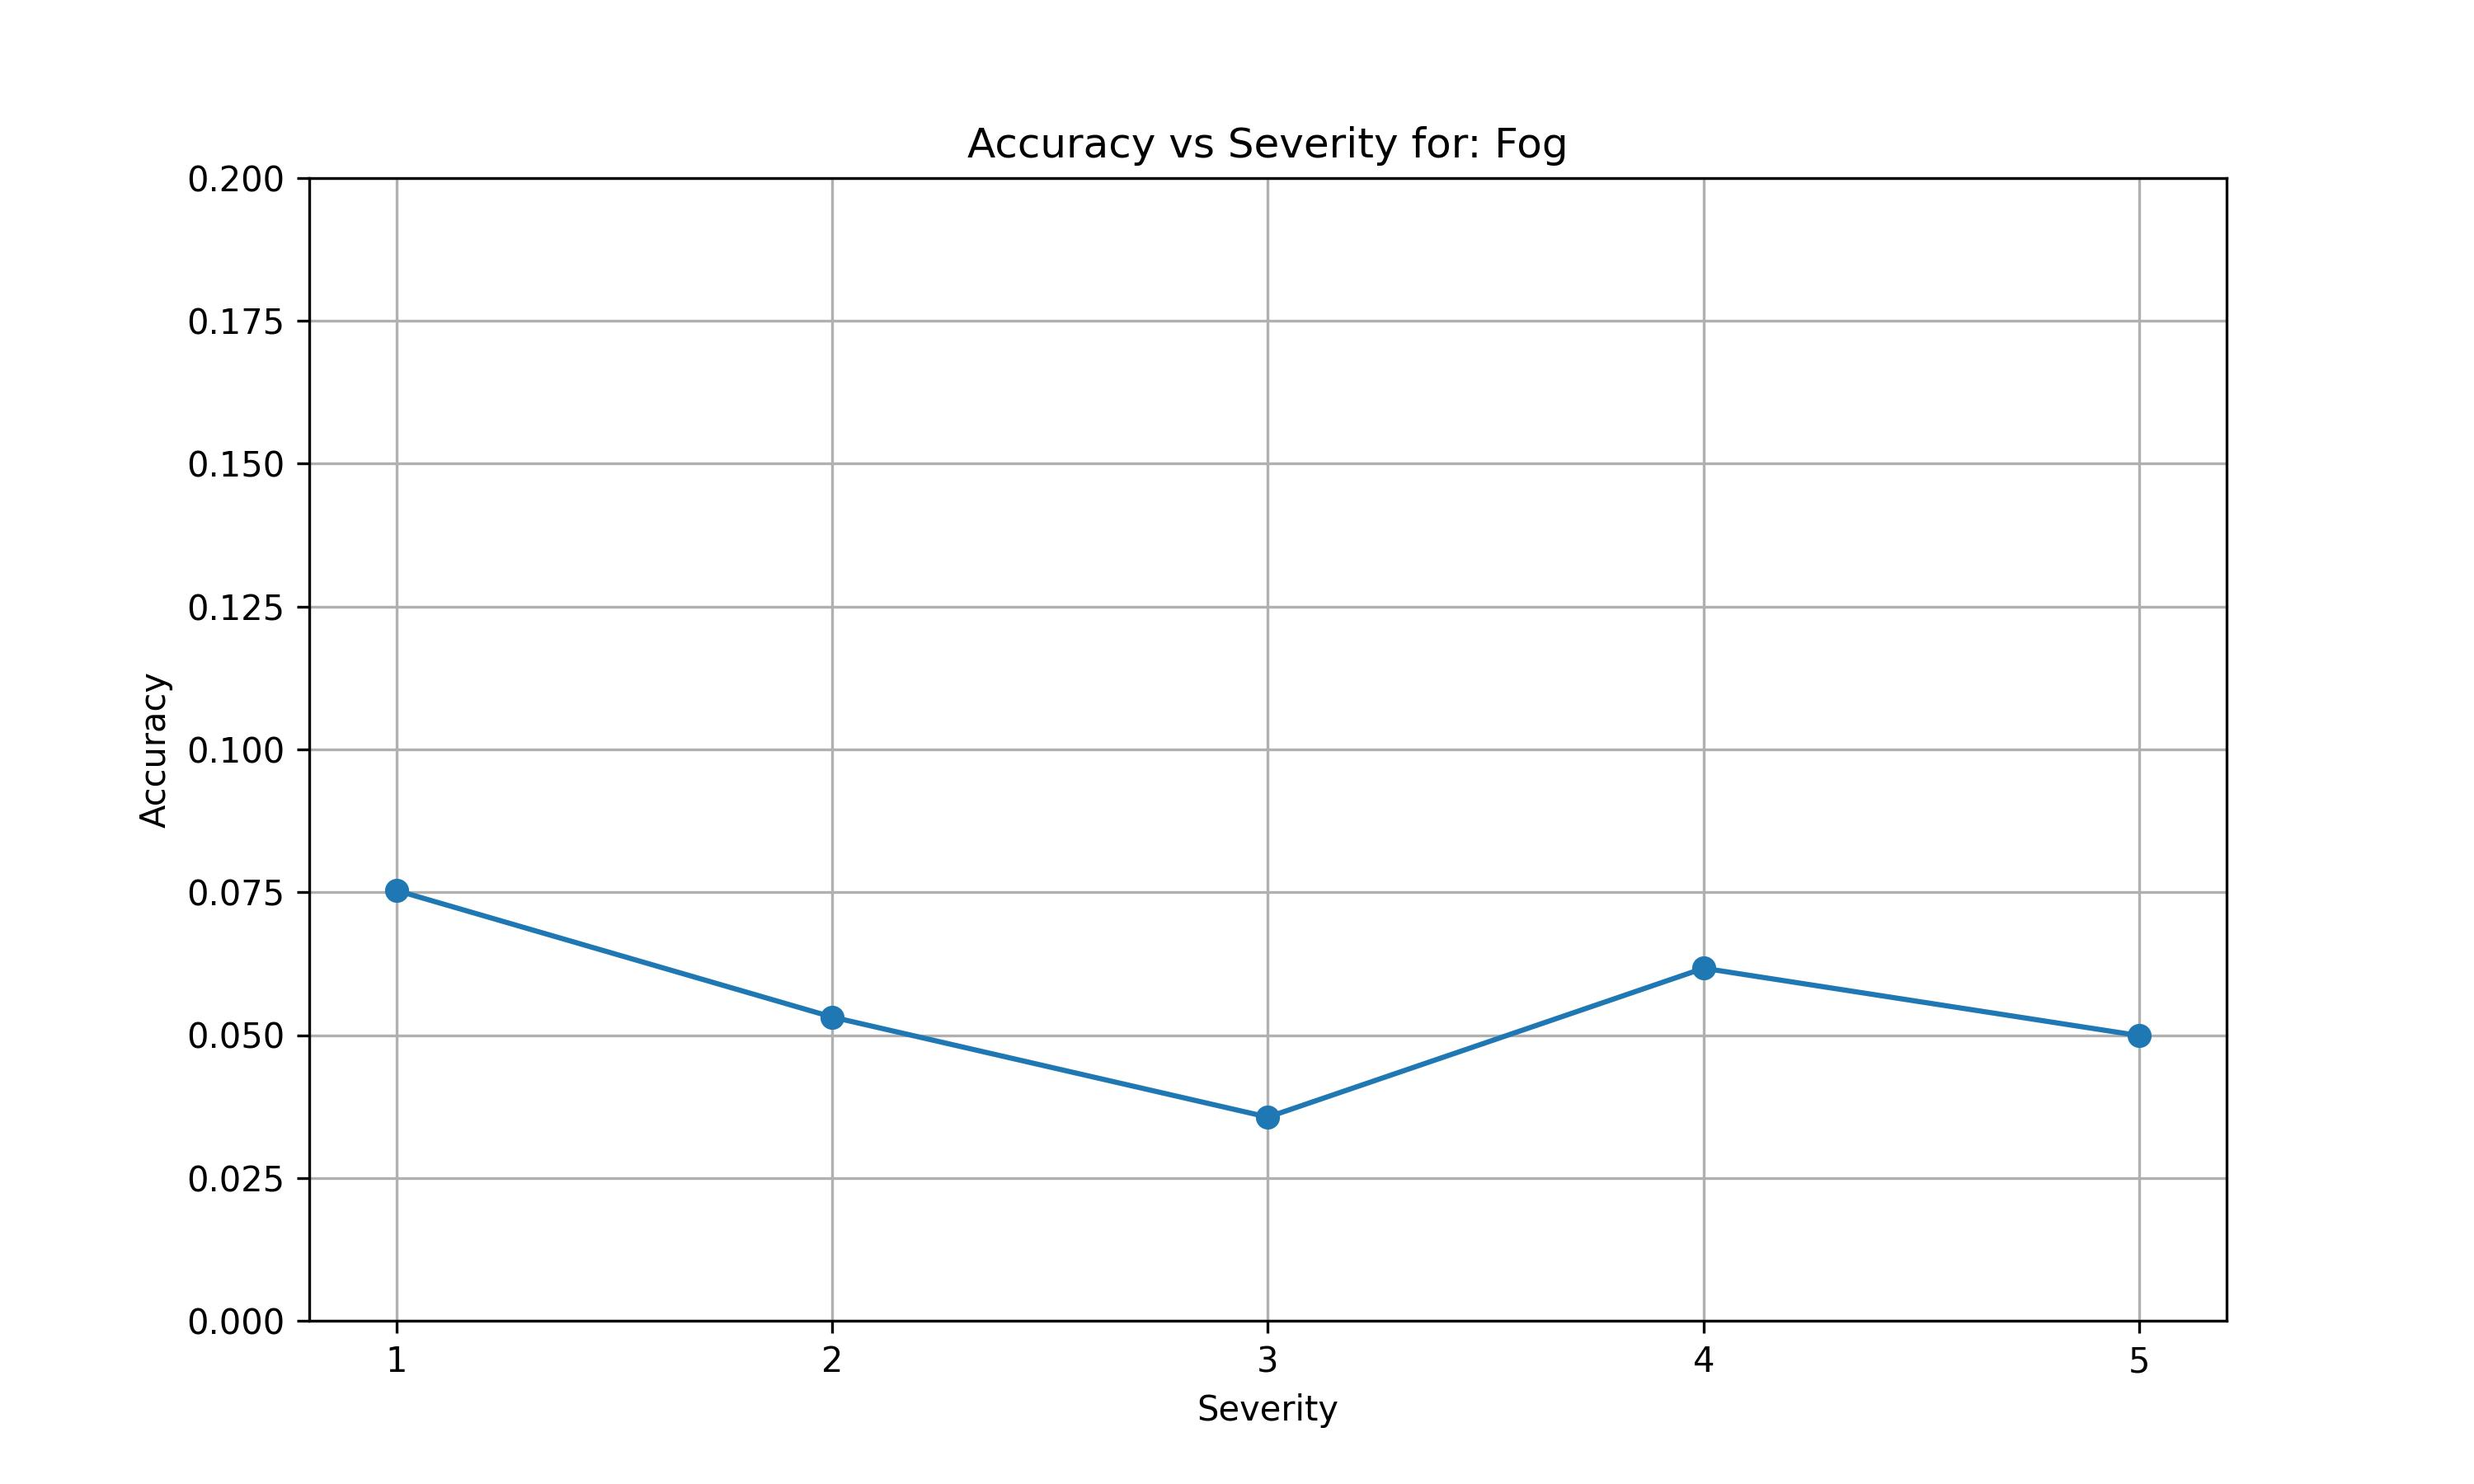
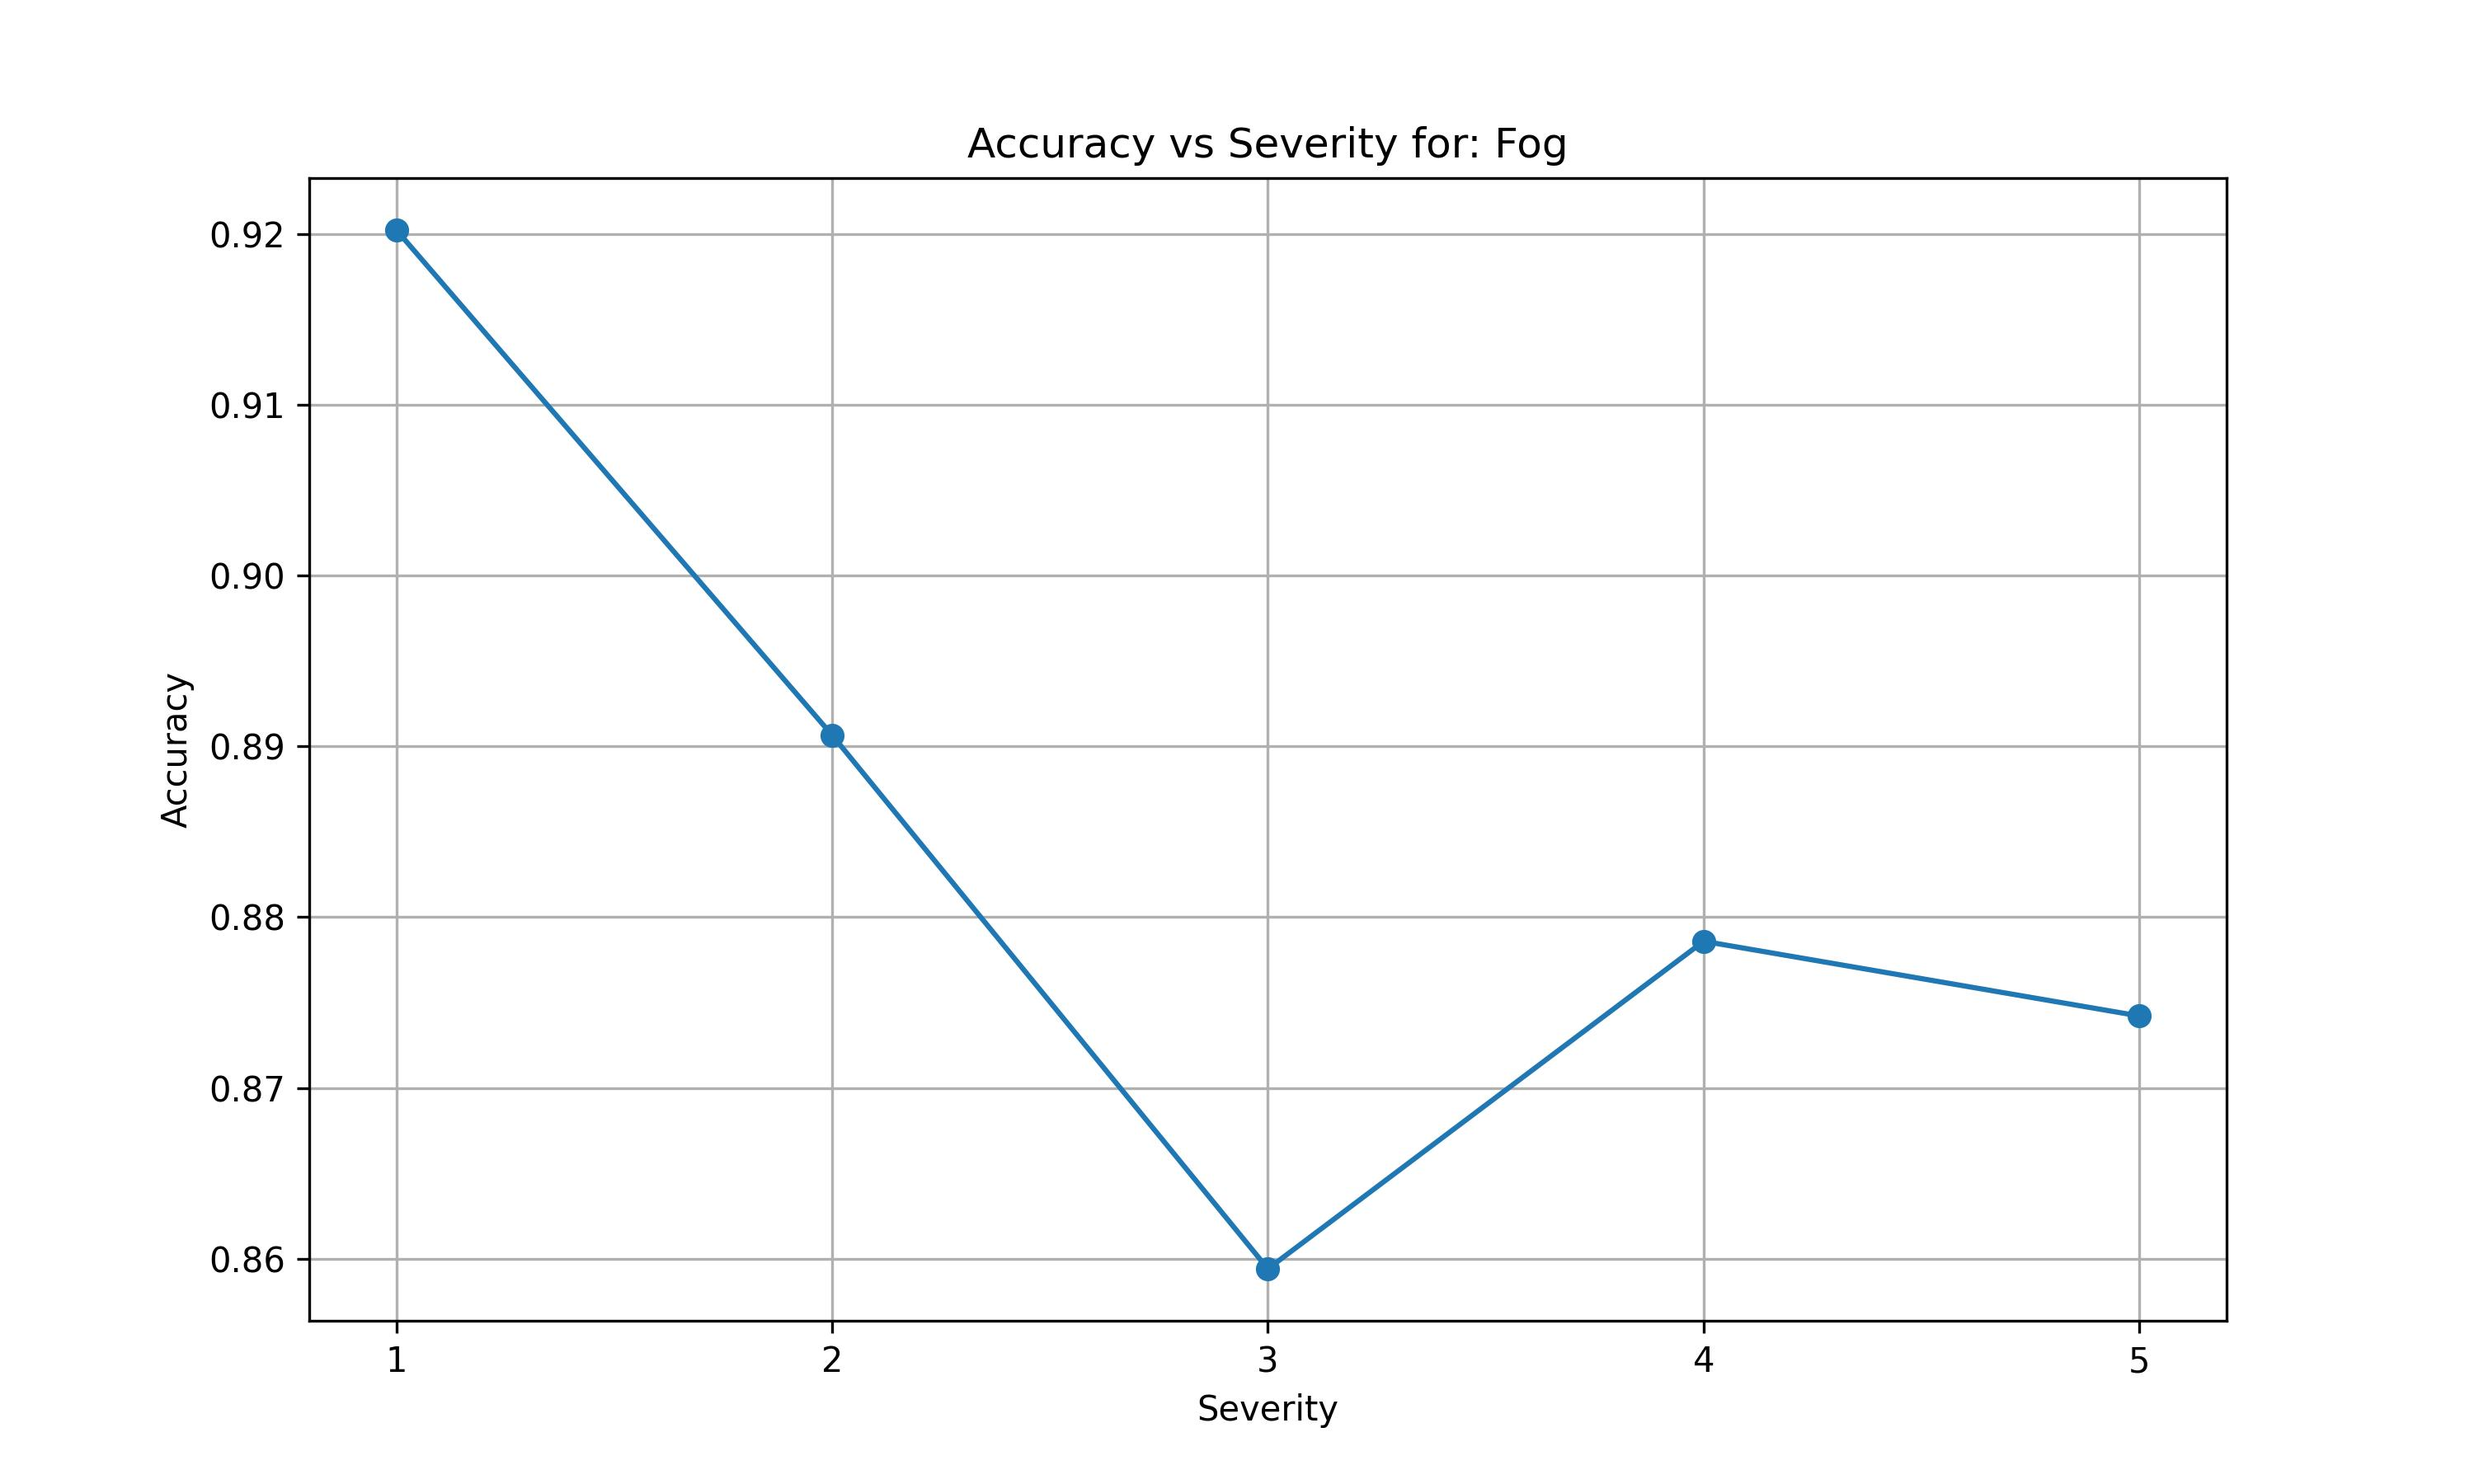
Finish weather perturbations

diff --git a/perturbations/weather_graphs.py b/perturbations/weather_graphs.py
@@ -6,7 +6,7 @@ import pandas as pd
 import matplotlib.pyplot as plt
 import os
 
-data = pd.read_csv("weather_perturbations.csv")
+data = pd.read_csv("weather.out")
 
 data['severity'] = pd.to_numeric(data['severity'], errors='coerce')
 data['accuracy'] = pd.to_numeric(data['accuracy'], errors='coerce')
@@ -28,7 +28,6 @@ for ctype in corruption_types:
     plt.ylabel("Accuracy")
     plt.title(f"Accuracy vs Severity for: {ctype.capitalize()}")
     plt.xticks([1, 2, 3, 4, 5])
-    plt.ylim(0, 0.2)
     plt.grid(True)
     
     save_path = os.path.join(output_dir, f"{ctype}.jpg")
